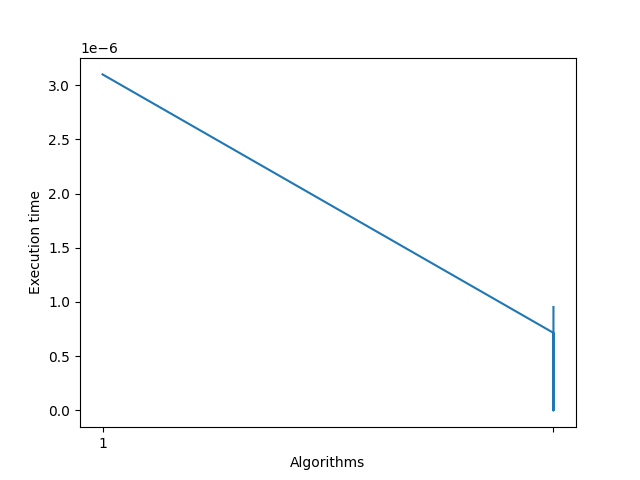
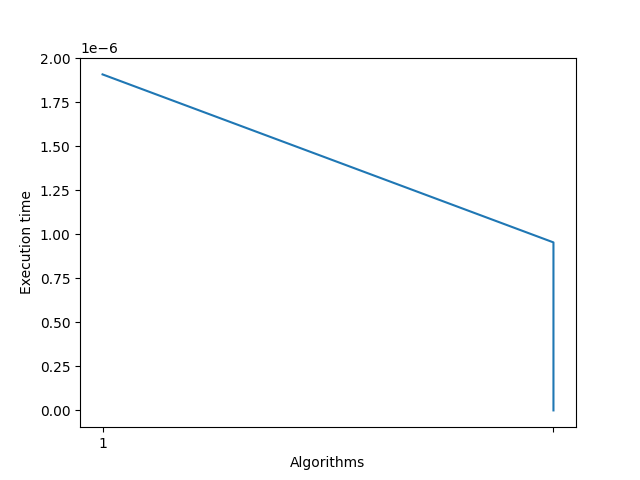
updated ui

diff --git a/main.py b/main.py
@@ -81,8 +81,9 @@ def run_algorithms():
     plt.xlabel('Algorithms')
     plt.ylabel('Execution time')
     plt.savefig('bubble_sort_output.png')
-    output_image = ImageTk.PhotoImage(Image.open("bubble_sort_output.png").resize((70,70)))
-    output_button.configure(image =output_image)
+    plt.show()
+    #output_image = ImageTk.PhotoImage(Image.open("bubble_sort_output.png").resize((700,700)))
+    #output_button.configure(image =output_image)
     #update the output frame in the main app 
 
 
@@ -131,7 +132,7 @@ array_size_entry = ttk.Entry(input_frame, width=10)
 array_size_entry.grid(row=3, column=1)
 
 generate_button = customtkinter.CTkButton(input_frame, text="Generate Array", command=generate_array, hover_color='light blue')
-generate_button.grid(row=1, column=2)
+generate_button.grid(row=3, column=2)
 
 # Create a label to display the selected data
 selected_data_label = customtkinter.CTkLabel(root, text="",corner_radius=20)
